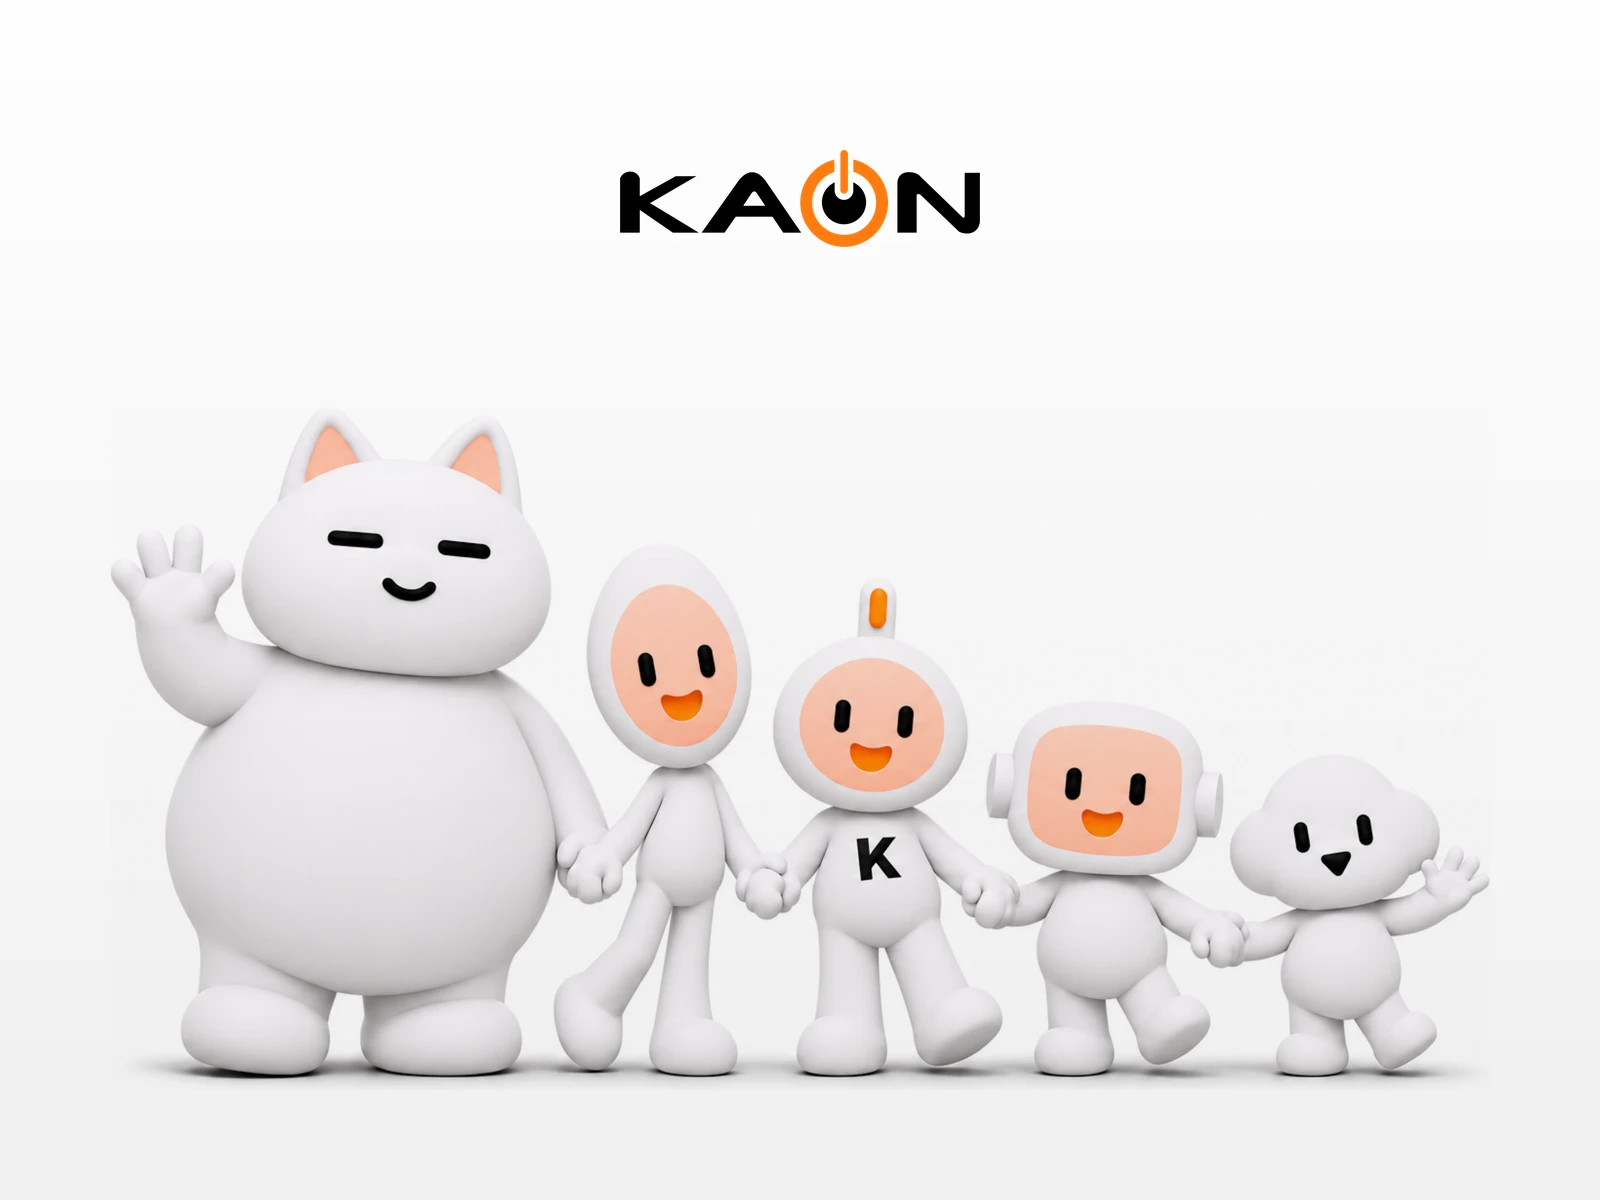
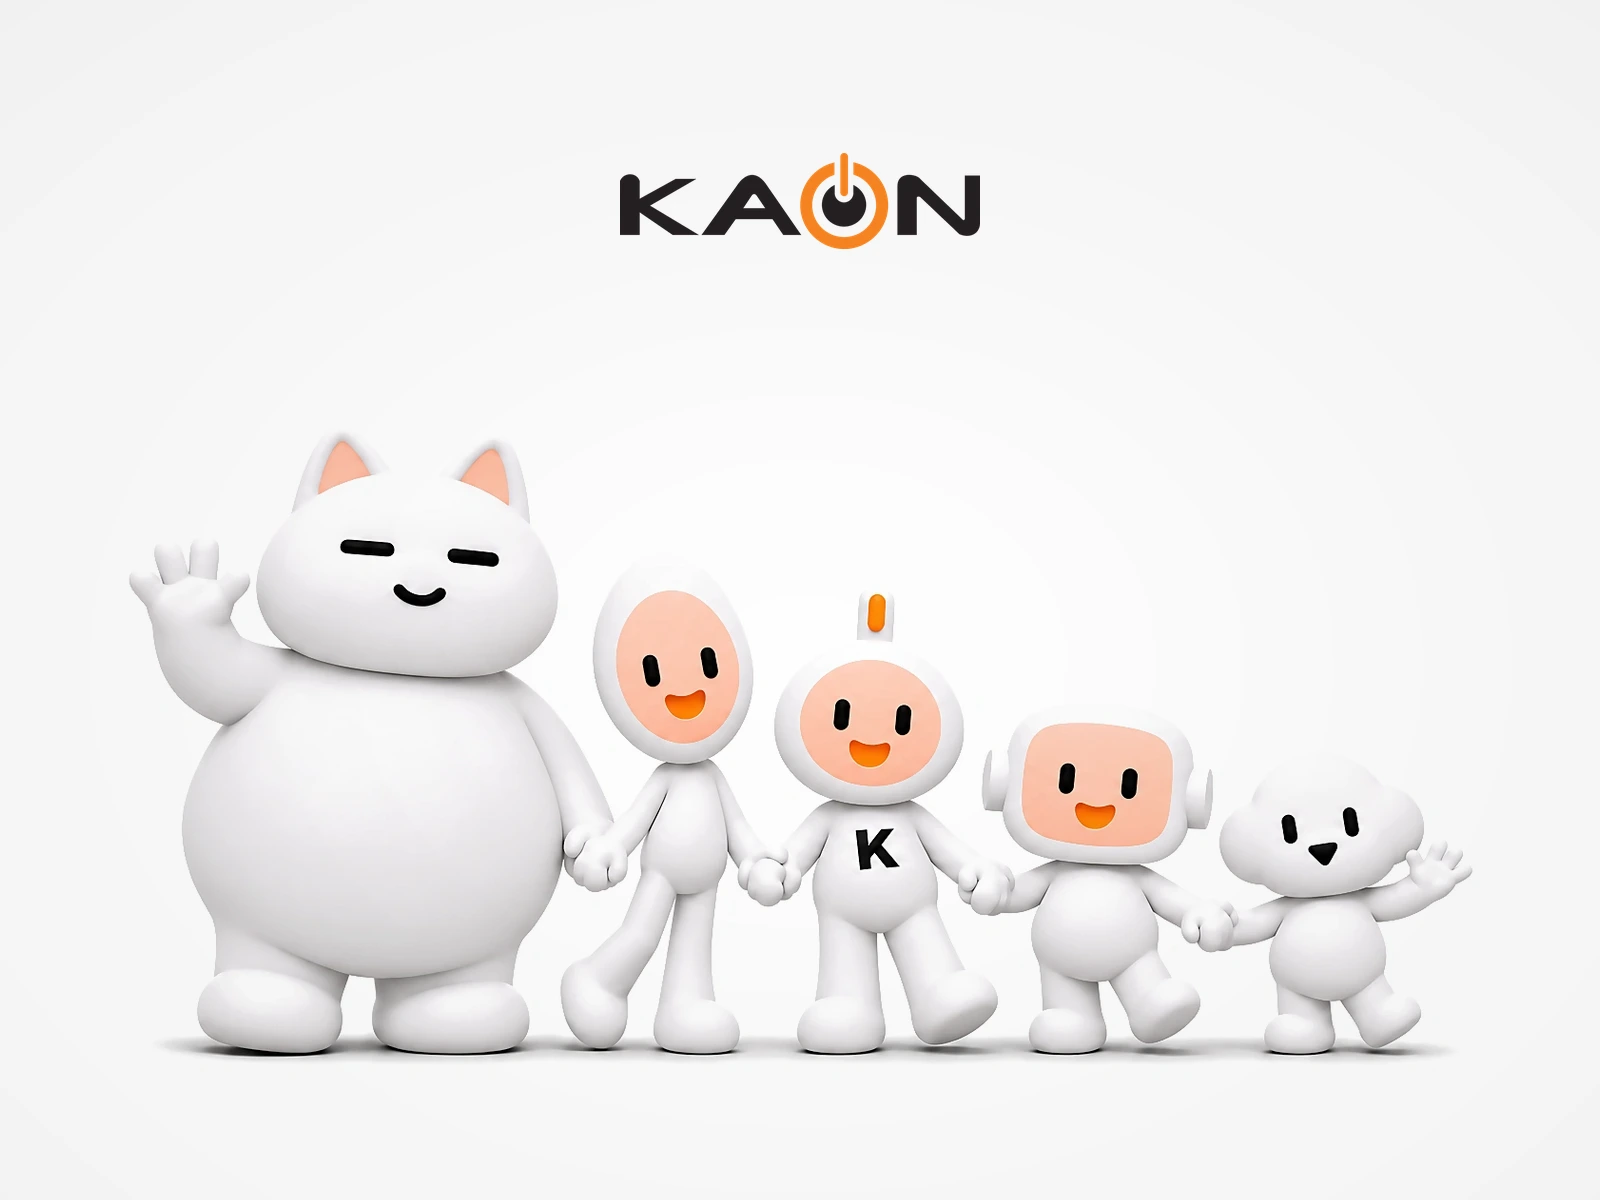
Rebuild KAON Friends 3D thumbnail from high-res source
Claude-Session: https://claude.ai/code/session_01BFCG5mZW9hgWuvcjPHNUrC

diff --git a/index.html b/index.html
@@ -4478,7 +4478,7 @@ const WORKS=[
    ch:'그룹 5대 사업군(Set-top Box·Broadband CPE·Metaverse/AR Glass·Solution·Robot)을 상징하는 캐릭터 IP를 만드는 과제였습니다.',
    ap:'사업 특성을 반영한 네이밍과 성격·관계, 캐릭터별 스토리까지 세계관 전체를 설계했습니다. 동작 표현이 쉬운 인간형 3종과 무형 사업의 상징성을 살린 비인간형 2종으로 조형 체계를 나누고, 기업 컬러(오렌지) 기반 컬러 시스템, 감정·상태를 보여주는 시그널 장치, 신장·체중 등 캐릭터 스펙을 정의했습니다.',
    out:'캐릭터 5종 전체를 저작권 등록(2022.11)해 법적 보호가 가능한 그룹 IP로 전환했습니다. 가이드라인(11p), 아크릴 등신대·스티커·키캡·마우스패드 굿즈, 신규 입사자 웰컴 키트까지 만들었고, 2026년에는 솔루·로비 조형을 리뉴얼해 표현 범위를 넓혔습니다.'},
-  {title:'KAON Friends 3D Guidelines', page:'kf3d', img:'assets/kf3d/thumb.webp?v=2', sub:'KAON GROUP', tag:'Character IP · Guideline', period:'2026.11', cat:['brand','ai'], scene:3,
+  {title:'KAON Friends 3D Guidelines', page:'kf3d', img:'assets/kf3d/thumb.webp?v=3', sub:'KAON GROUP', tag:'Character IP · Guideline', period:'2026.11', cat:['brand','ai'], scene:3,
    kr:'가온프렌즈 3D 캐릭터 아이덴티티 매뉴얼과 AI 제작 기준 (41p)', role:'캐릭터 가이드라인 기획·디자인', client:'가온그룹', tools:'Illustrator, Generative AI',
    kpis:[], ch:'', ap:'', out:''},
   {title:'KAON ESG Campaign Goods', page:'keycap', img:'assets/keycap/thumb.webp?v=7', sub:'KAON GROUP', tag:'Campaign · Character Goods', period:'2026.03 — 10', cat:['brand'], scene:3,
